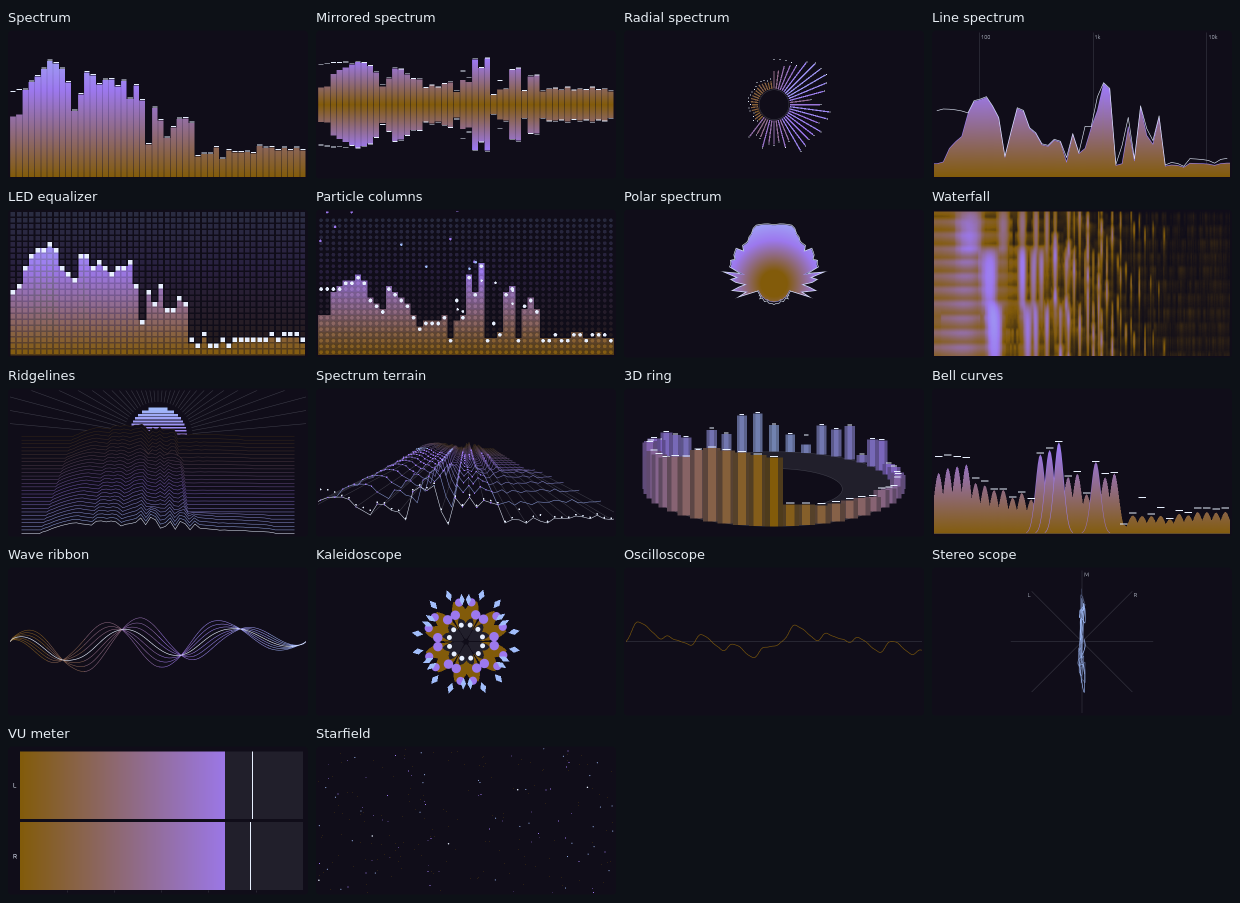
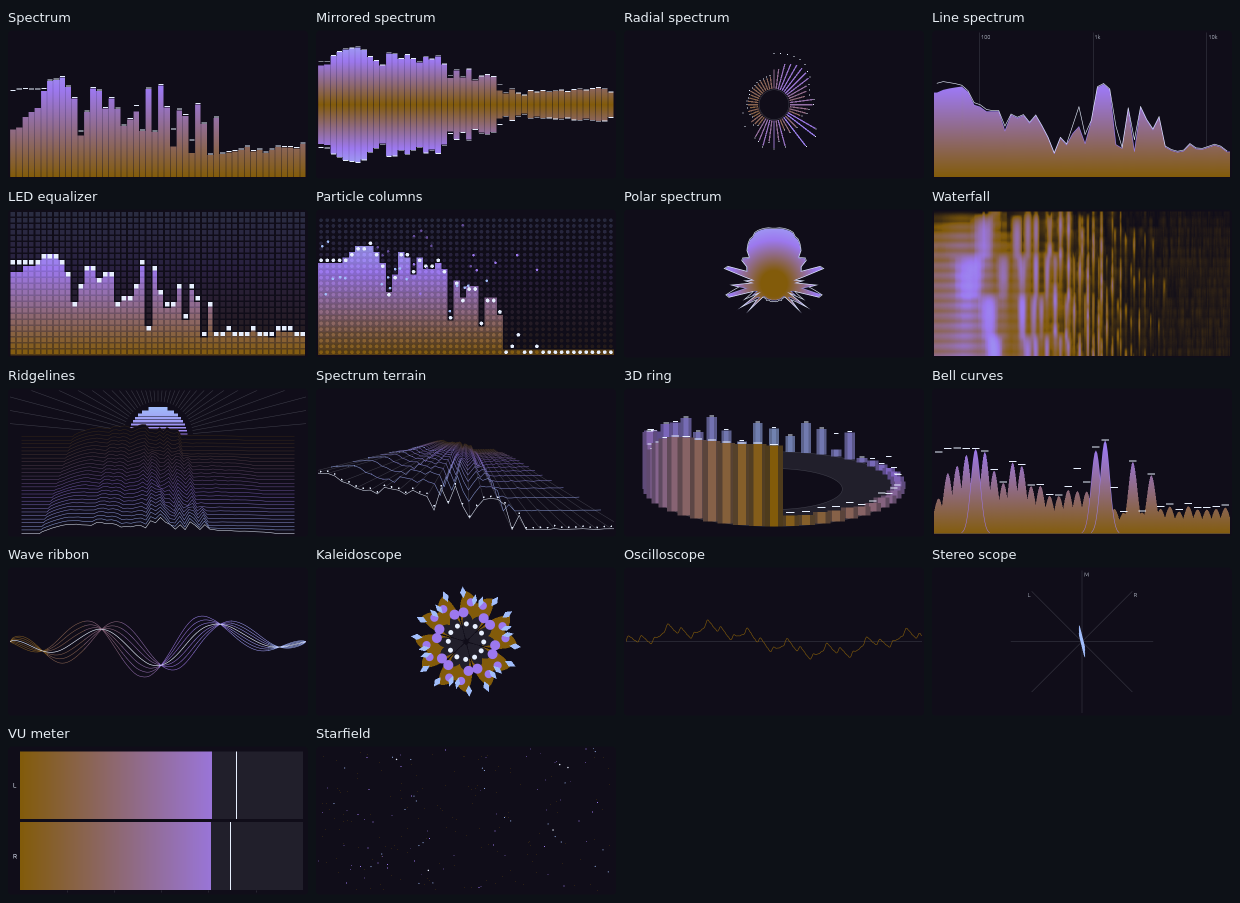
0.13.0: README on the two readings, the pattern stage, the themes; pictures retaken
- Version 0.13.0.
- README's photosensitivity section says what holds now:
  - both readings, the strict one enforced
  - the pattern stage
  - the whole sweep (624 of 624 under both readings, 12 cases at the
    limit of 6)
  - before and after for the reviewer's cases
  - the guard's measured cost
  - what does not hold: the guard alone veils at seven; the pattern
    stage's first tenth of a second; stripes finer than 1 % unseen;
    lavapipe only
- Features: the twelve themes, the Mixer and Bluetooth cards, the album
  headers, the hero cover, Feedback's eight looks.
- Pictures retaken: the window, the face sheets (Liquid no longer
  brown), the comparison with axross, the Mixer, Bluetooth and the empty
  window, and a new gallery of the themes.

diff --git a/README.md b/README.md
@@ -63,7 +63,8 @@ picture is made by `AMP_DEMO_TRACK=… cargo test --test ui -- --ignored`.</sub>
   as a short playlist leaves room for - and below it the playlist (two lines a track,
   the playing one with its cover and bars that move with the sound) or the equalizer
   (a dB scale, each band filled from its 0 dB line). The card's cover is 120 to 200
-  px as the window allows; the cover (kept up to 1024 px) is made the size it is
+  px as the window allows (wider than 900 points, a hero of up to 320 px on a
+  soft shadow, what comes next beside it); the cover (kept up to 1024 px) is made the size it is
   shown at, in pixels, on a thread of its own by a Lanczos filter and cropped to a
   square (egui's renderer makes no mipmaps: made smaller by the GPU it aliased).
   The "Cover" face makes the cover the picture, glowing with the bass (without a
@@ -97,8 +98,9 @@ picture is made by `AMP_DEMO_TRACK=… cargo test --test ui -- --ignored`.</sub>
   - *Generative* - the cover, liquid (domain-warped noise), fire, metaballs, aurora,
     flow field, synthwave, a tunnel of glowing lines, galaxy, Julia set (smooth escape
     colours, orbit traps), reaction-diffusion, a feedback face in MilkDrop's manner
-    (its last frame warped under a new layer; five looks of its own, a new one each
-    phrase of 16 beats - it reads no MilkDrop presets), a flyover of a raymarched night landscape the bass lifts, crystals
+    (its last frame warped under a new layer; eight looks of its own - rings, a
+    scope's line, spiral arms, orbits, a rose, spokes, mirrored in two or four -
+    a new one each phrase of 16 beats; it reads no MilkDrop presets), a flyover of a raymarched night landscape the bass lifts, crystals
     (Voronoi cells), a skyline (searchlights, traffic, roofs lit by their bands),
     isometric bars, DNA helix, spirograph, polygon morph, moiré (antialiased), beat
     rings, smoke and the title's words on the beat.
@@ -124,6 +126,24 @@ picture is made by `AMP_DEMO_TRACK=… cargo test --test ui -- --ignored`.</sub>
   Escape closes only the innermost thing, one at a time: a track's details,
   the URL field, the warning or a field being typed in before the large view
   or full screen.
+- **Themes** for the window (⚙ → Theme), twelve, each a set of design tokens
+  (grounds, cards, text, secondary text, the accent with its hover and pressed
+  shades, borders, the focus ring, good / warning / error, a slider's rail,
+  selection, shadow, corners): *Midnight* (the default), *Paper* (warm white,
+  ink-blue), *Frost*, *Dusk* (Solarized at sundown), *Night drive* (violet,
+  magenta, a little cyan), *Forest*, *Espresso*, *Ocean*, *Sakura* (light pink,
+  plum), *Studio* (greyscale, one orange signal), *Daylight* (light) and *High
+  contrast* (black and white, yellow for what is chosen, a 3 px focus ring, 7 : 1
+  text). The pointer on one in the menu shows it at once; a click keeps it (in
+  axross-amp's own file). Optionally the desktop's light or dark decides, between
+  a light and a dark theme of one's choice. The accent comes from the cover (made
+  to read in the theme: lightened or darkened until it does) or is the theme's
+  own. A test checks every theme's text, secondary, disabled and selected text,
+  accent, good / warning / error, the focus ring and the slider against every
+  ground they lie on (WCAG AA, 4.5 : 1 and 3 : 1; AAA, 7 : 1, in high contrast).
+  A theme changes the window, never the pictures: the faces keep their own
+  colour schemes (a theme only suggests one) and so every limit on flashes.
+  Switching costs one frame; nothing a frame.
 - **The window**: wider than 1240 points the player is a centred column
   1180 wide. Text on the cover's colour (the chosen row, the buttons) is light
   or dark, whichever reads at 4.5 : 1 or more (WCAG 1.4.3) - tested over 144
@@ -138,7 +158,9 @@ picture is made by `AMP_DEMO_TRACK=… cargo test --test ui -- --ignored`.</sub>
   the background; a file already in the list is not added twice), saving as M3U8. Titles,
   lengths, artists and albums are read in the background; a track that cannot be
   played is marked red with why; the details of a track (tags, format, ReplayGain) in
-  a window of their own. At most 10,000 tracks - axross's player reads no more.
+  a window of their own. Two or more tracks of one album in a row (one folder) come
+  under a header with the album's cover, artist ("Various artists" where they
+  differ), its tracks and length. At most 10,000 tracks - axross's player reads no more.
 - **Sleep timer** (15 to 90 minutes with a fade, or at the end of the track).
 - **The desktop** (Linux): MPRIS 2 on the session bus - media keys, a headset's
   buttons, the desktop's sound menu and lock screen show and control it, also while
@@ -150,10 +172,13 @@ picture is made by `AMP_DEMO_TRACK=… cargo test --test ui -- --ignored`.</sub>
   default), the applications playing and recording (volume, mute, which device) and
   the cards' profiles (a Bluetooth headset: A2DP or headset) - through `pactl` of
   PulseAudio or PipeWire, live as they change elsewhere; volumes follow a slider
-  while it is dragged.
+  while it is dragged. Laid out as cards in sections (this player, outputs,
+  inputs, applications, sound cards; two columns in a wide window), the
+  player's card and the default device in the cover's accent.
 - **Bluetooth** (Bluetooth tab, Linux): the adapter (power, scan for Classic and / or
   BLE devices), the devices with kind, battery, signal and state; Pair, Trust,
-  Connect, Disconnect, Forget - through BlueZ on the system D-Bus
+  Connect, Disconnect, Forget - grouped as connected, paired and nearby, each with
+  its kind's sign - through BlueZ on the system D-Bus
   ([zbus](https://github.com/dbus2/zbus)). A pairing that asks (confirm a passkey,
   type a PIN) asks in a dialog; nothing is accepted without an answer. **Use as audio
   output** connects a speaker or headset and makes its output this player's.
@@ -179,6 +204,11 @@ picture is made by `AMP_DEMO_TRACK=… cargo test --test ui -- --ignored`.</sub>
 
 <p><img src="docs/bluetooth.png" alt="The Bluetooth tab" width="45%"></p>
 
+![The themes](docs/themes.png)
+
+<sub>Every theme, playing (`cargo test --test themes -- --ignored`, which also
+renders each in the window's other states into a contact sheet).</sub>
+
 ## Photosensitivity
 
 **Warning.** The pictures move with the music, and moving, flashing pictures
@@ -189,96 +219,127 @@ in the faces' menu) or choose the cover.
 
 What axross-amp does about it:
 
-- **Calm faces.** Each face is meant to stay within the rules by itself,
-  without the guard below. What drives the pictures' brightness (the bars,
-  the beat's pulse, the VU meter, the oscilloscope's height, every band of
-  the spectrograms) turns no faster than every quarter of a second in
-  *Calm*. Pictures with seconds of history (the waterfall, the mel and the
-  fine spectrograms, the piano roll) show each band as its slow mean and
-  half its change from it, eased - a rhythm scrolled past is no flicker and
-  no grating; the overview's scrolling span is held and falls slowly.
-  Between bars and cells (spectrum, mirror, LED, particles, 3D ring,
+- **Two readings; the stricter is enforced.** Every rendered frame is read
+  as WCAG 2.3.1 / 2.3.2 have it - a field changing over a quarter of its
+  area the same way within 34 ms is a transition, a flash a pair of
+  opposing ones - and by a stricter reading an independent review applies:
+  within 100 ms, and every change counted, each rise and each fall, paired
+  or not. A face passes only where both readings count at most six
+  transitions in every second (saturated red too) and no pattern hazard;
+  `tests/flash.rs` fails otherwise.
+- **Calm faces.** Each face is meant to stay within both readings by
+  itself, without the guard below. What drives the pictures' brightness
+  (the bars, the beat's pulse, the bass, the energy, the middle, the
+  treble, the VU meter, the oscilloscope's height, every band of the
+  spectrograms) turns no faster than every quarter of a second - in
+  *Intense* too, which is livelier by its quicker easing and pace. In the
+  starkest schemes (white or pure red on black: measured by their colours'
+  contrast with the ground and their share of saturated red) it turns up to
+  1.6 times slower still, the LED and particle columns fall slower, and
+  the flow field's lines are a shade under full. Pictures with seconds of
+  history (the waterfall, the mel and the fine spectrograms, the piano
+  roll) show each band as its slow mean and half its change from it,
+  eased. Between bars and cells (spectrum, mirror, LED, particles, 3D ring,
   chromagram) lies a shade of their colour 0.075 dimmer, not the dark
   ground: no grating. Dense lines that would form one are faint (the
   polygon morph's outer copies, the helix's rungs, synthwave's fan and far
   rows, a noise-dense oscilloscope trace); the moiré's rings interfere at
-  most 0.09 above the ground; crystals are lit evenly; the beat rings are
-  never saturated red; the onsets turn the kaleidoscope no faster than a
-  petal in a third of a second and twist the ribbon over a third of a
-  second (a small ribbon has fewer lines); the spirograph fades in a new
-  wheel. The Cover face's cover is at most 30 % of the picture (a cover of
-  checks or stripes, standing, stays under 40 %), its backdrop blurred.
-- **A flash guard at the output**, for what the faces do not foresee. After
-  a face has drawn a frame, the guard estimates the picture on a grid of
-  cells (128 across): the shapes laid on in the order they are painted, a
-  shader face by its own function evaluated on the CPU, the cover from its
-  pixels. It follows each cell's relative luminance and saturated red (R,
-  G and B linear), and each *field* - a third of the **screen** each way
-  (the monitor's size; WCAG's 10° view), slid over the face - in which a
-  quarter of that field's area changes the same way at once (34 ms; a cell
-  changed only by small shapes counts as much as they cover). A flash is a
-  pair of opposing changes; where a field has changed five times in a
-  second (a 120 BPM pulse, four, is left alone) it lays a veil over it:
-  the cells blended towards a slow average of themselves, up to 85 - 95 %,
-  staying on while the face goes on near the limit and a second and a half
-  after (no pumping). The veil is visible, a smeared ghost of the picture;
-  on ordinary music - pop, house, drum and bass - it does not come (a
-  test). It costs about 1.5 - 2.5 ms of the CPU a frame (`--release`,
-  `tests/frame_cost.rs`; 5 - 6 ms for the spirograph, and for the
-  particles at 3840 x 2160); the frame rate's cap on a software renderer
-  counts it in.
+  most 0.09 above the ground; crystals are lit evenly; the fire, the smoke,
+  the beat rings, the helix, the polygon morph, the terrain and the
+  starfield's trails are never saturated red; the onsets
+  turn the kaleidoscope no faster than a petal in a third of a second; the
+  tunnel's near rings (which sweep past fastest) are faint and the onsets
+  twist it slowly; a new word of the typography comes at most every 0.75
+  s; the beat zooms and turns the Julia set only a little; the terrain's
+  dots lie on every other row, as loud as it is. The Cover face's cover is
+  at most 30 % of the picture, its backdrop blurred.
+- **A flash guard at the output**, as a backstop. After a face has drawn a
+  frame, the guard estimates the picture on a grid of cells (128 across):
+  the shapes laid on in the order they are painted (pieces side by side
+  adding up to what they cover), a shader face by its own function
+  evaluated on the CPU, the cover from its pixels. It follows each cell's
+  relative luminance and saturated red (R, G and B linear), and each
+  *field* - a third of the **screen** each way (the monitor's size; WCAG's
+  10° view), slid over the face - in which a quarter of that field's area
+  changes the same way within 100 ms, every change counted, as the strict
+  reading does. Where a field has changed seven times in a second it lays
+  a veil over the whole face - a slow, blurred average of the picture, 95
+  % - staying on while the face goes on near the limit and a second and a
+  half after. Seven, not six: the veil's own coming is a change too, and
+  at six it would make the seventh. So the guard does not by itself hold a
+  face to six; it caps what the faces do not foresee. On ordinary music - pop,
+  house, drum and bass - it does not come (a test). It costs about 1.5 - 5.5
+  ms of the CPU a frame (`--release`, `tests/frame_cost.rs`, the faces with
+  and without it); more for the faces of thousands of pieces: the
+  spirograph 7 - 10 ms, the particles 11 - 12.5 ms at 1920 x 1080 and 3840
+  x 2160, the skyline 9 ms at 3840 x 2160. The frame rate's cap on a
+  software renderer counts it in.
+- **A pattern stage in the guard** (ITU-R BT.1702), for stripes no face
+  foresaw - a cover of checks, a striped custom scheme: regular stripes
+  in the estimate (five light-dark pairs or more in a row or column of
+  cells, full periods alike, each step 0.1 of luminance) over a quarter of
+  the picture while they move, or 35 % standing, are softened in place
+  towards the mean of the cells round them (21 each way), by 95 - 98 %,
+  until they no longer are. Stripes finer than two cells (about 1 % of
+  the picture's width) are not seen by it. `tests/pattern_stage.rs`: a
+  drifting checkerboard cover and black-and-white stripes of 6 px are a
+  hazard in 120 of 120 frames without it, in 10 and 5 with it (the first
+  tenth of a second, before it has seen them move).
 - **Calm by default.** *Intense* (Options) is livelier and only chosen after
   a photosensitivity warning; where the desktop asks for reduced motion
   (GNOME, KDE, GTK's settings, macOS, Windows) it cannot be chosen and the
   pictures are calmer still.
-- **Measured.** `tests/support/flashmeter.rs` measures rendered frames as
-  WCAG 2.3.1 / 2.3.2 and ITU-R BT.1702 describe: per pixel (relative
-  luminance; saturated red with R, G and B linear), any field a third of
-  the picture each way (the picture taken as the whole screen: the
-  strictest case) with a quarter of it changing the same way within 34 ms;
-  a flash a pair of opposing changes; more than six transitions in any
-  second fails, and so does saturated red flashing so; regular stripes -
-  five light-dark pairs or more, full periods alike, uneven gratings too -
+- **Measured.** `tests/support/flashmeter.rs` measures rendered frames:
+  per pixel (relative luminance; saturated red with R, G and B linear),
+  any field a third of the picture each way (the picture taken as the
+  whole screen: the strictest case), both readings above; regular stripes
+  (five light-dark pairs or more, full periods alike, uneven gratings too)
   over a quarter of the picture while they move or drift (within a tenth
   of a second), or 40 % standing. `tests/flash.rs` renders every face and
   its options through music made to provoke them - kicks at 120 and 240
   BPM, gated noise, bass and treble in turn, fast sweeps, left and right
   in turn, bursts, silence and full scale - at 60, 30 and 12 frames a
-  second (384 x 216); the faces with history through ten seconds each of
-  steady music (bass and treble in turn, a chirp, a click train); the
-  default faces through pop, house and drum and bass (the veil must stay
-  off). Every face passes all of it with the guard on and in Calm; the
-  faces at 60 frames a second pass without the guard too (at most 4
-  transitions a second). With `--ignored`, every scheme (Classic, Neon,
-  Mono, Fire) and both motions at 320 x 180 (416 cases): 414 pass; in
-  *Intense* the LED equalizer (Classic) and the plasma (Neon) lie in moving
-  stripes for two or three frames (26 - 38 % of the picture, over the 25 %
-  allowed). At most 6 transitions a second anywhere (the plasma and the
-  beat rings in Intense), red at most 5.
+  second; the faces with history through ten seconds each of steady music;
+  the default faces through pop, house and drum and bass (the veil must
+  stay off); the feedback face's every look, Intense, white on black and
+  pure red; the moiré at its most (Intense, white on black); every case an
+  earlier sweep found. With `--ignored`, the whole sweep: every face and
+  option, Calm and Intense, in Classic, Neon, Mono, Fire and two extreme
+  custom schemes - white on black, and pure red (#ff0000, peak #ff3030) on
+  black - at 320 x 180: 624 cases, **all pass both readings** (each face last
+  measured after its last change). The most by the normal reading: 4
+  transitions a second, red 4; by the strict reading: 6, red 6 (12 cases at
+  the limit, 11 of them in *Intense*: synthwave, the line spectrum, the bell
+  curves, the crystals, the aurora; and the ribbon in pure red, Calm); moving
+  stripes in no frame; standing stripes at most 39 % (40 % allowed). The
+  faces that run faster as the music gets louder move as fast after 25
+  minutes of it as at its start (a test: their clock times the energy had
+  leapt further the longer they played).
 
-Before and after, as an independent review measured 0.11.0 and its own
-test crate measures 0.12.0 (Calm, Classic, 480 x 270, the guard on;
-transitions a second by this meter, and by the reviewer's meter in
-brackets):
+Before and after, by the strict reading (the independent review's
+numbers for 0.12.0; 0.13.0 from the sweep above, 320 x 180, worst music;
+transitions a second, normal reading in brackets):
 
-| | 0.11.0 | 0.12.0 |
+| | 0.12.0 | 0.13.0 |
 |---|---|---|
-| mel spectrogram, bass and treble in turn, 10 s | 6 (15), stripes 85 % | 0 (0), none |
-| mel spectrogram, a chirp, 10 s | 9 (18), stripes 81 % | 0 (0), none |
-| waterfall (bars), clicks 9 and 13 a second | 25 - 27 | 0 (0) |
-| the same at 960 x 540 / 1920 x 1080 | 25 / 28 | 0 (0) / 0 |
-| Cover face over a checkerboard cover | stripes 40 %, a hazard | 36 - 37 %, none |
-| spectrum, line spectrum on house, drum and bass (30 fps) | veiled 13 - 89 % | veiled 0 % |
-| #ff4000 flashing five times a second (this meter) | no red | 10 red |
+| plasma, Intense, white on black | 9 - 17 | 1 (0) |
+| kaleidoscope, Intense, white on black | 7 | 0 (0) |
+| fire, Intense, pure red | 8 - 9 red | red 0 (0); 1 (0) |
+| LED equalizer, Intense, Classic | moving stripes, 2 - 3 frames | none; 3 (1) |
+| plasma, Intense, Neon | moving stripes, 2 - 3 frames | none; 0 (0) |
+| moiré at its most (Intense, white on black) | - | 0 (0), no stripes |
+| the whole sweep | 414 of 416 pass (normal reading, 4 schemes) | 624 of 624 (both readings, 6 schemes) |
+| a drifting checkerboard cover, 6 px stripes (no stage / stage) | no pattern stage | hazard in 120 / 10 and 120 / 5 frames of 120 |
 
-**Not yet met.** The two Intense pattern cases above. An independent meter that takes "at once" as 100 ms and
-counts every rise (not only pairs) still counts more than six in
-*Intense* with extreme schemes: the plasma (9 - 17) and the kaleidoscope
-(7) in pure black and white, the fire in pure red (8 - 9 red); the meter
-here counts 1 - 4 for them. The guard has no stage of its own for
-patterns (the faces avoid them; a cover or a scheme it does not foresee
-could make one). Measured only on test pictures up to 1920 x 1080 and on
-lavapipe, not a real GPU.
+**What does not hold, or is not claimed.** The guard by itself does not
+hold a face to six transitions a second by the strict reading: it veils at
+seven (at six its own veil would be the seventh); the faces pass by
+themselves, the guard is the backstop. Twelve cases sit at six, the limit.
+The pattern stage acts after a tenth of a second (up to 10 frames of a
+pattern first) and does not see stripes finer than about 1 % of the
+picture's width. Measured on our music at 320 x 180 (the sweep), 384 x 216
+(the suite) and up to 1920 x 1080 (some faces), on Mesa's lavapipe, not a
+real GPU.
 
 What is not claimed: the guard estimates the picture; the test's music and
 sizes are ours, not every song or screen. It is a strong precaution, not a
